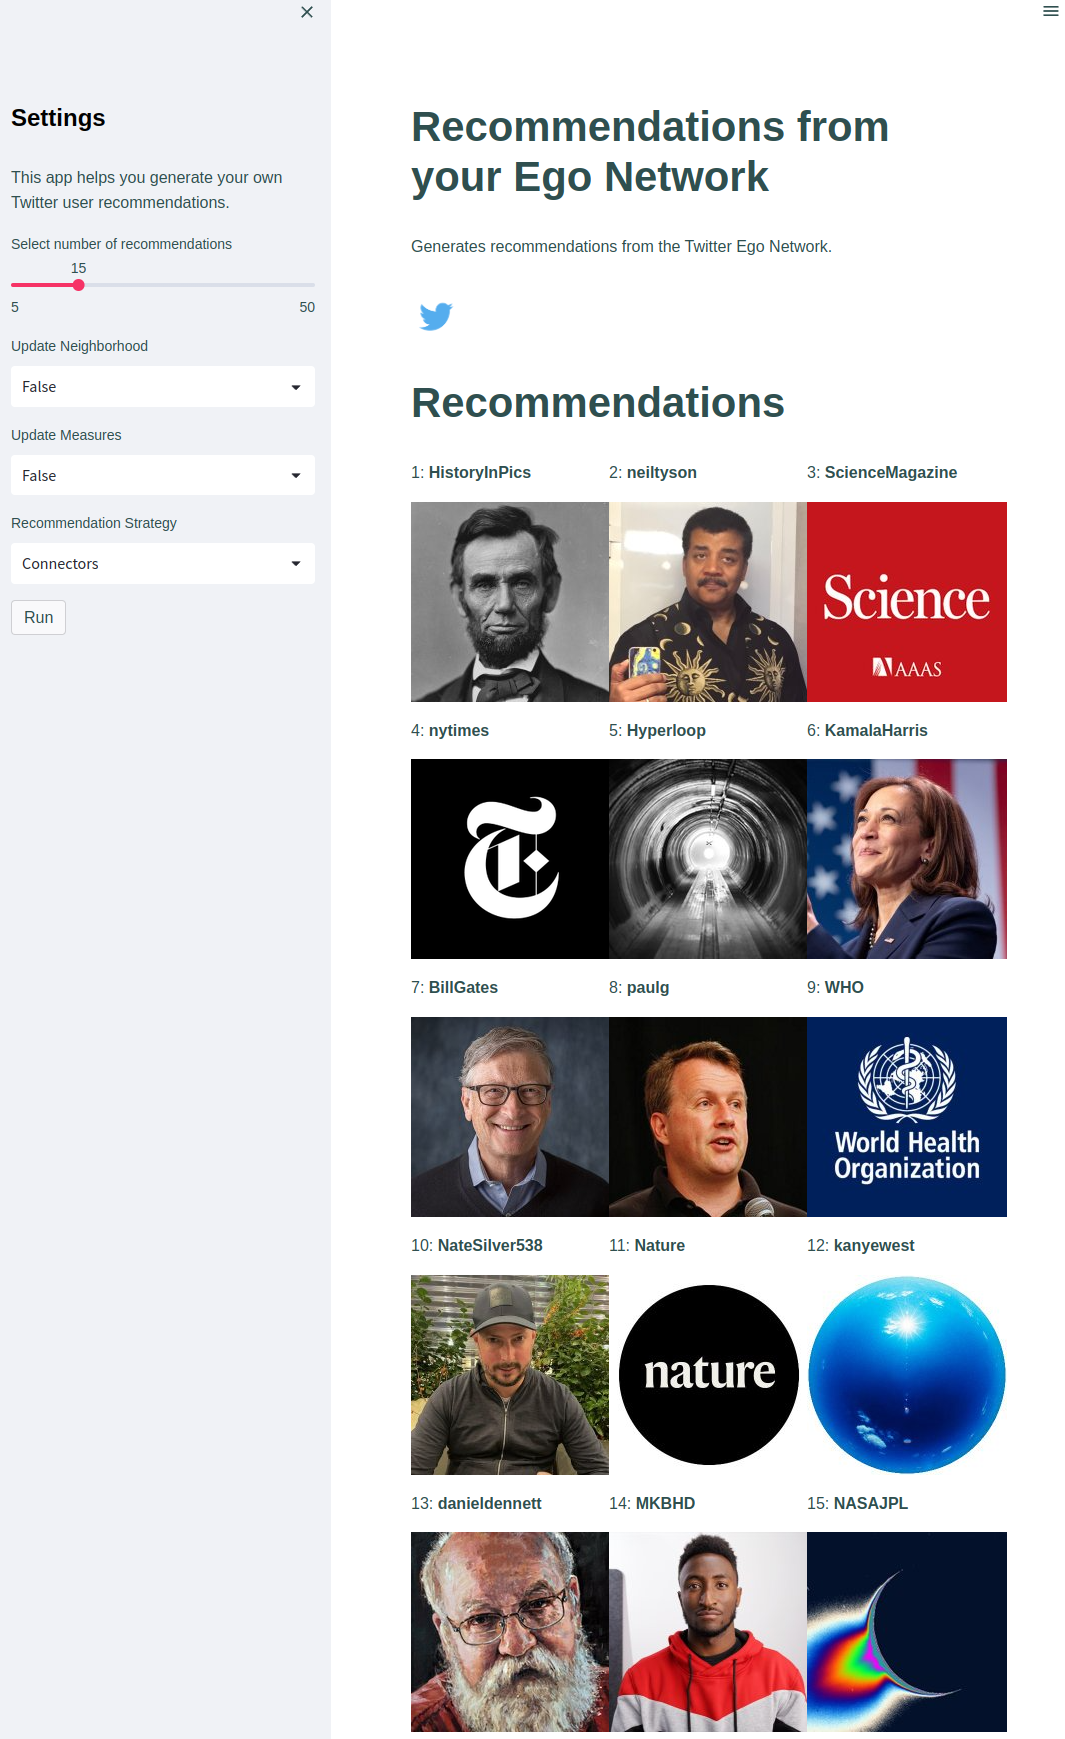
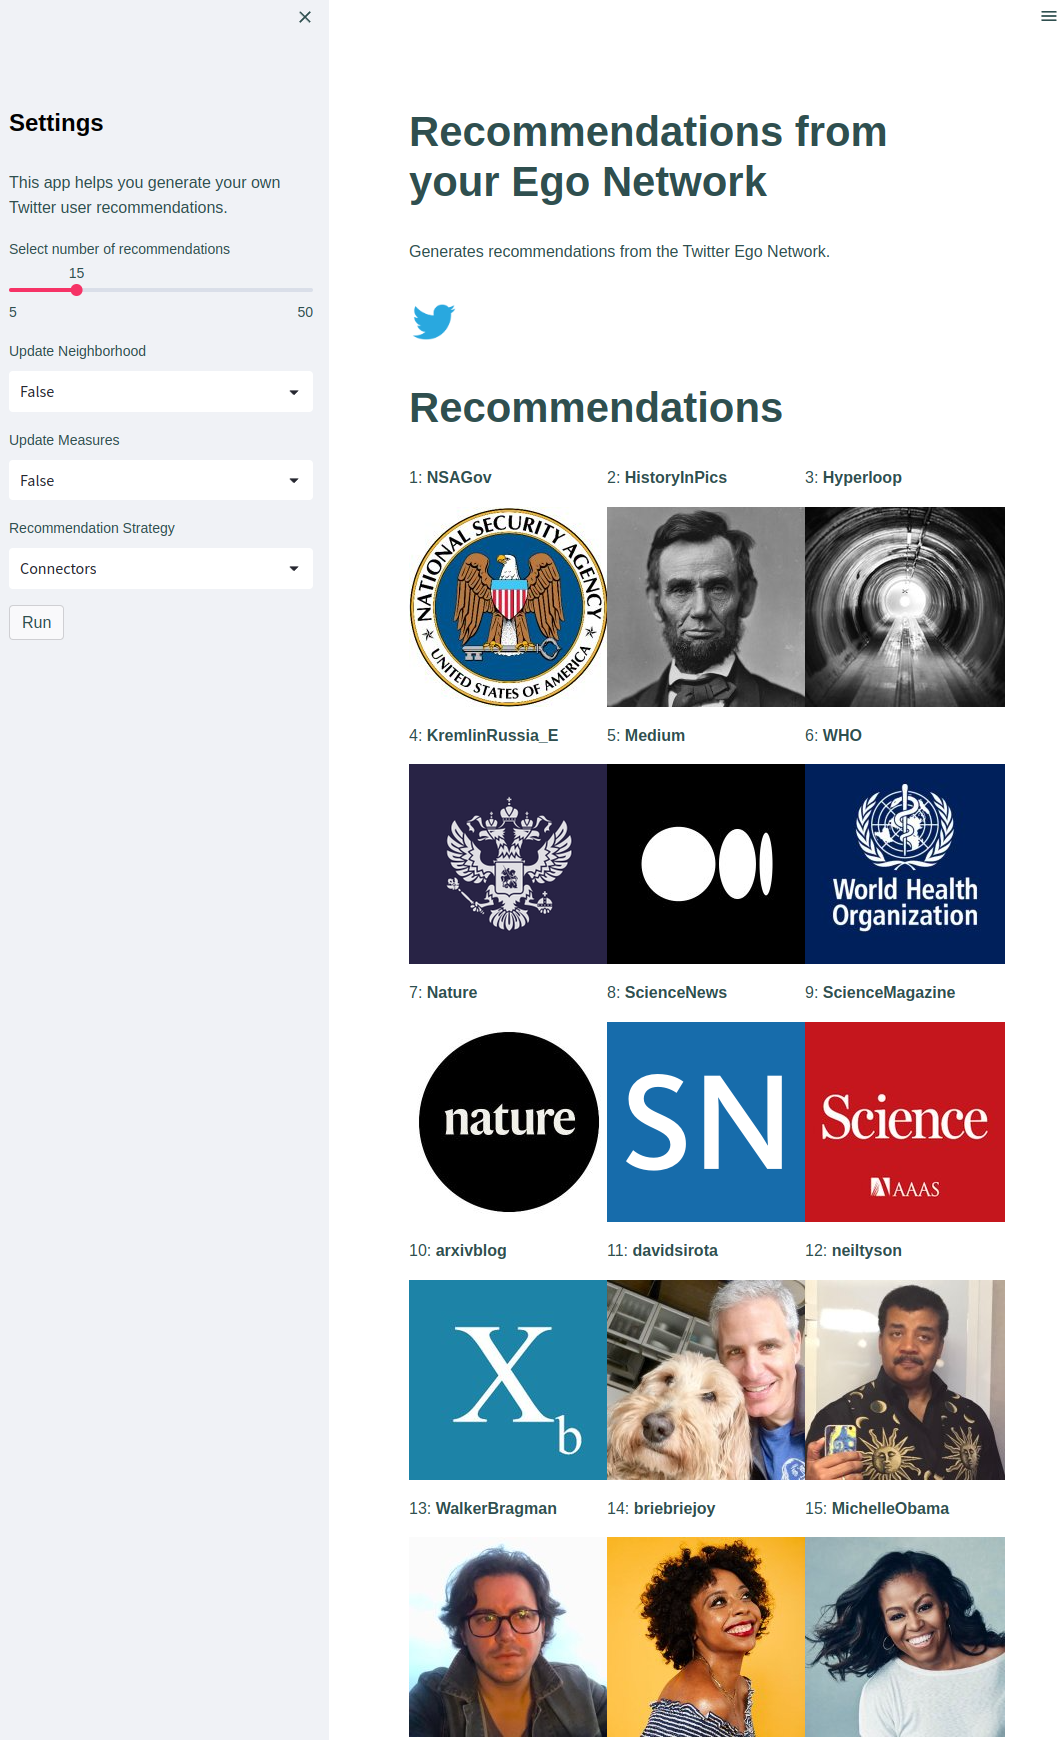
docs add

diff --git a/src/models/strategies.py b/src/models/strategies.py
@@ -6,13 +6,14 @@ weights = {
         "pagerank": 3,
     },
     "connectors": {
-        "degree_centrality": -1,
-        "hubs": 5,
+        "degree_centrality": -2,
+        "pagerank": 3,
+        "closeness_centrality": 8,
         "betweenness_centrality": 10,
-        "closeness_centrality": 10,
+        "hubs": 10,
     },
     "influencers": {
-        "degree_centrality": 8,
+        "degree_centrality": 5,
         "eigenvector_centrality": 8,
         "authorities": 10,
         "pagerank": 10,

diff --git a/app.py b/app.py
@@ -8,7 +8,7 @@ except ModuleNotFoundError:
     from ego_networks.utils.api.twitter import get_twitter_profile_image
 
 N_ROWS = 5
-HEADER_IMAGE = "https://assets.stickpng.com/images/580b57fcd9996e24bc43c53e.png"
+HEADER_IMAGE = "https://www.freepnglogos.com/uploads/twitter-logo-png/twitter-logo-vector-png-clipart-1.png"
 
 
 def render_header(header_image):

diff --git a/README.md b/README.md
@@ -6,25 +6,17 @@
     <img src="./assets/sample.png" alt="sample" width="500"/>
 </p>
 
-## Twitter User Recommendations
-
-
-<p float="left" align="middle">
-        <img src="./assets/recs_strategy_diverse.png" alt="sample" width="220"/>
-        <img src="./assets/recs_strategy_connectors.png" alt="sample" width="220"/>
-        <img src="./assets/recs_strategy_influencers.png" alt="sample" width="220"/>
-</p>
 
 ## Objectives
 
 This project is a broad effort to give an individual control over what information they consume, what sub communities they're connected, and how information diffusion over networks might affect their perspective. We want to study information flow and belief propogation through complex networks, help people find `highly personalized communities` from their immediate ego network, but also `avoid echo chambers, filter bubbles`.
 
 -   We start by creating the two step neighborhood network for `Twitter`.
-    -   We only consider the `out neighbors`, i.e. who the user follows, the intent being that it's who the user follows matter more than who follows the user.
-    -   The `information flow` however is inward.
--    The framework is designed to be extensible to other social networks and other types of networks.
-     -   This could extend to a `heterogenous network` of multiple entities such as `people, content, communities, ideas` and relationships between them.
-     -   This could also extend to a complex [multiplex network](https://cosnet.bifi.es/network-theory/multiplex-networks/) that captures multiple relationship types. Information would flow through multiple layers of the network with differing diffusion patterns.
+    -   We only consider the `out neighbors`, i.e. who the user follows (or friends?), the intent being that it's who the user follows matter more than who follows the user.
+    -   However, the `information flow` is inward.
+-    The framework is designed to be extensible to other social networks and other types of content and idea networks.
+     -   Work is in progress to extend this to a `heterogenous network` of multiple entities such as `people, content, communities, ideas` and differing relationships between them.
+     -   This could also extend to a complex [multiplex network](https://cosnet.bifi.es/network-theory/multiplex-networks/), in which nformation would flow through multiple layers of the network (imagine real and virtual multi layered networks) with differing diffusion patterns.
 
 <p align="center">
     <img src="https://cosnet.bifi.es/wp-content/uploads/2014/06/multiplex_networks_2a.jpg" alt="ego" width="500"/>
@@ -63,7 +55,20 @@ source .venv/bin/activate
 streamlit run app.py
 ```
 
+## Twitter User Recommendations
 
+<p float="left" align="middle">
+        <img src="./assets/recs_strategy_diverse.png" alt="sample" width="220"/>
+        <img src="./assets/recs_strategy_connectors.png" alt="sample" width="220"/>
+        <img src="./assets/recs_strategy_influencers.png" alt="sample" width="220"/>
+</p>
+
+### Observations
+
+- The `diverse` recommendation algorithms are tuned to use network measures to surface a list spread across ideological diversity, which can be seen in these top three recommendations.
+- The `connector` algorithms are tuned to surface users who are likely to be network integrators, which in this case have a higher proportion of scientific and government institutions.
+- The `influencer` algorithms are tuned to surface users who are likely to be popular ideological influencers.
+- These will in future evolve to include more nuanced strategies and measures.
 
 ## Inspiration
 
